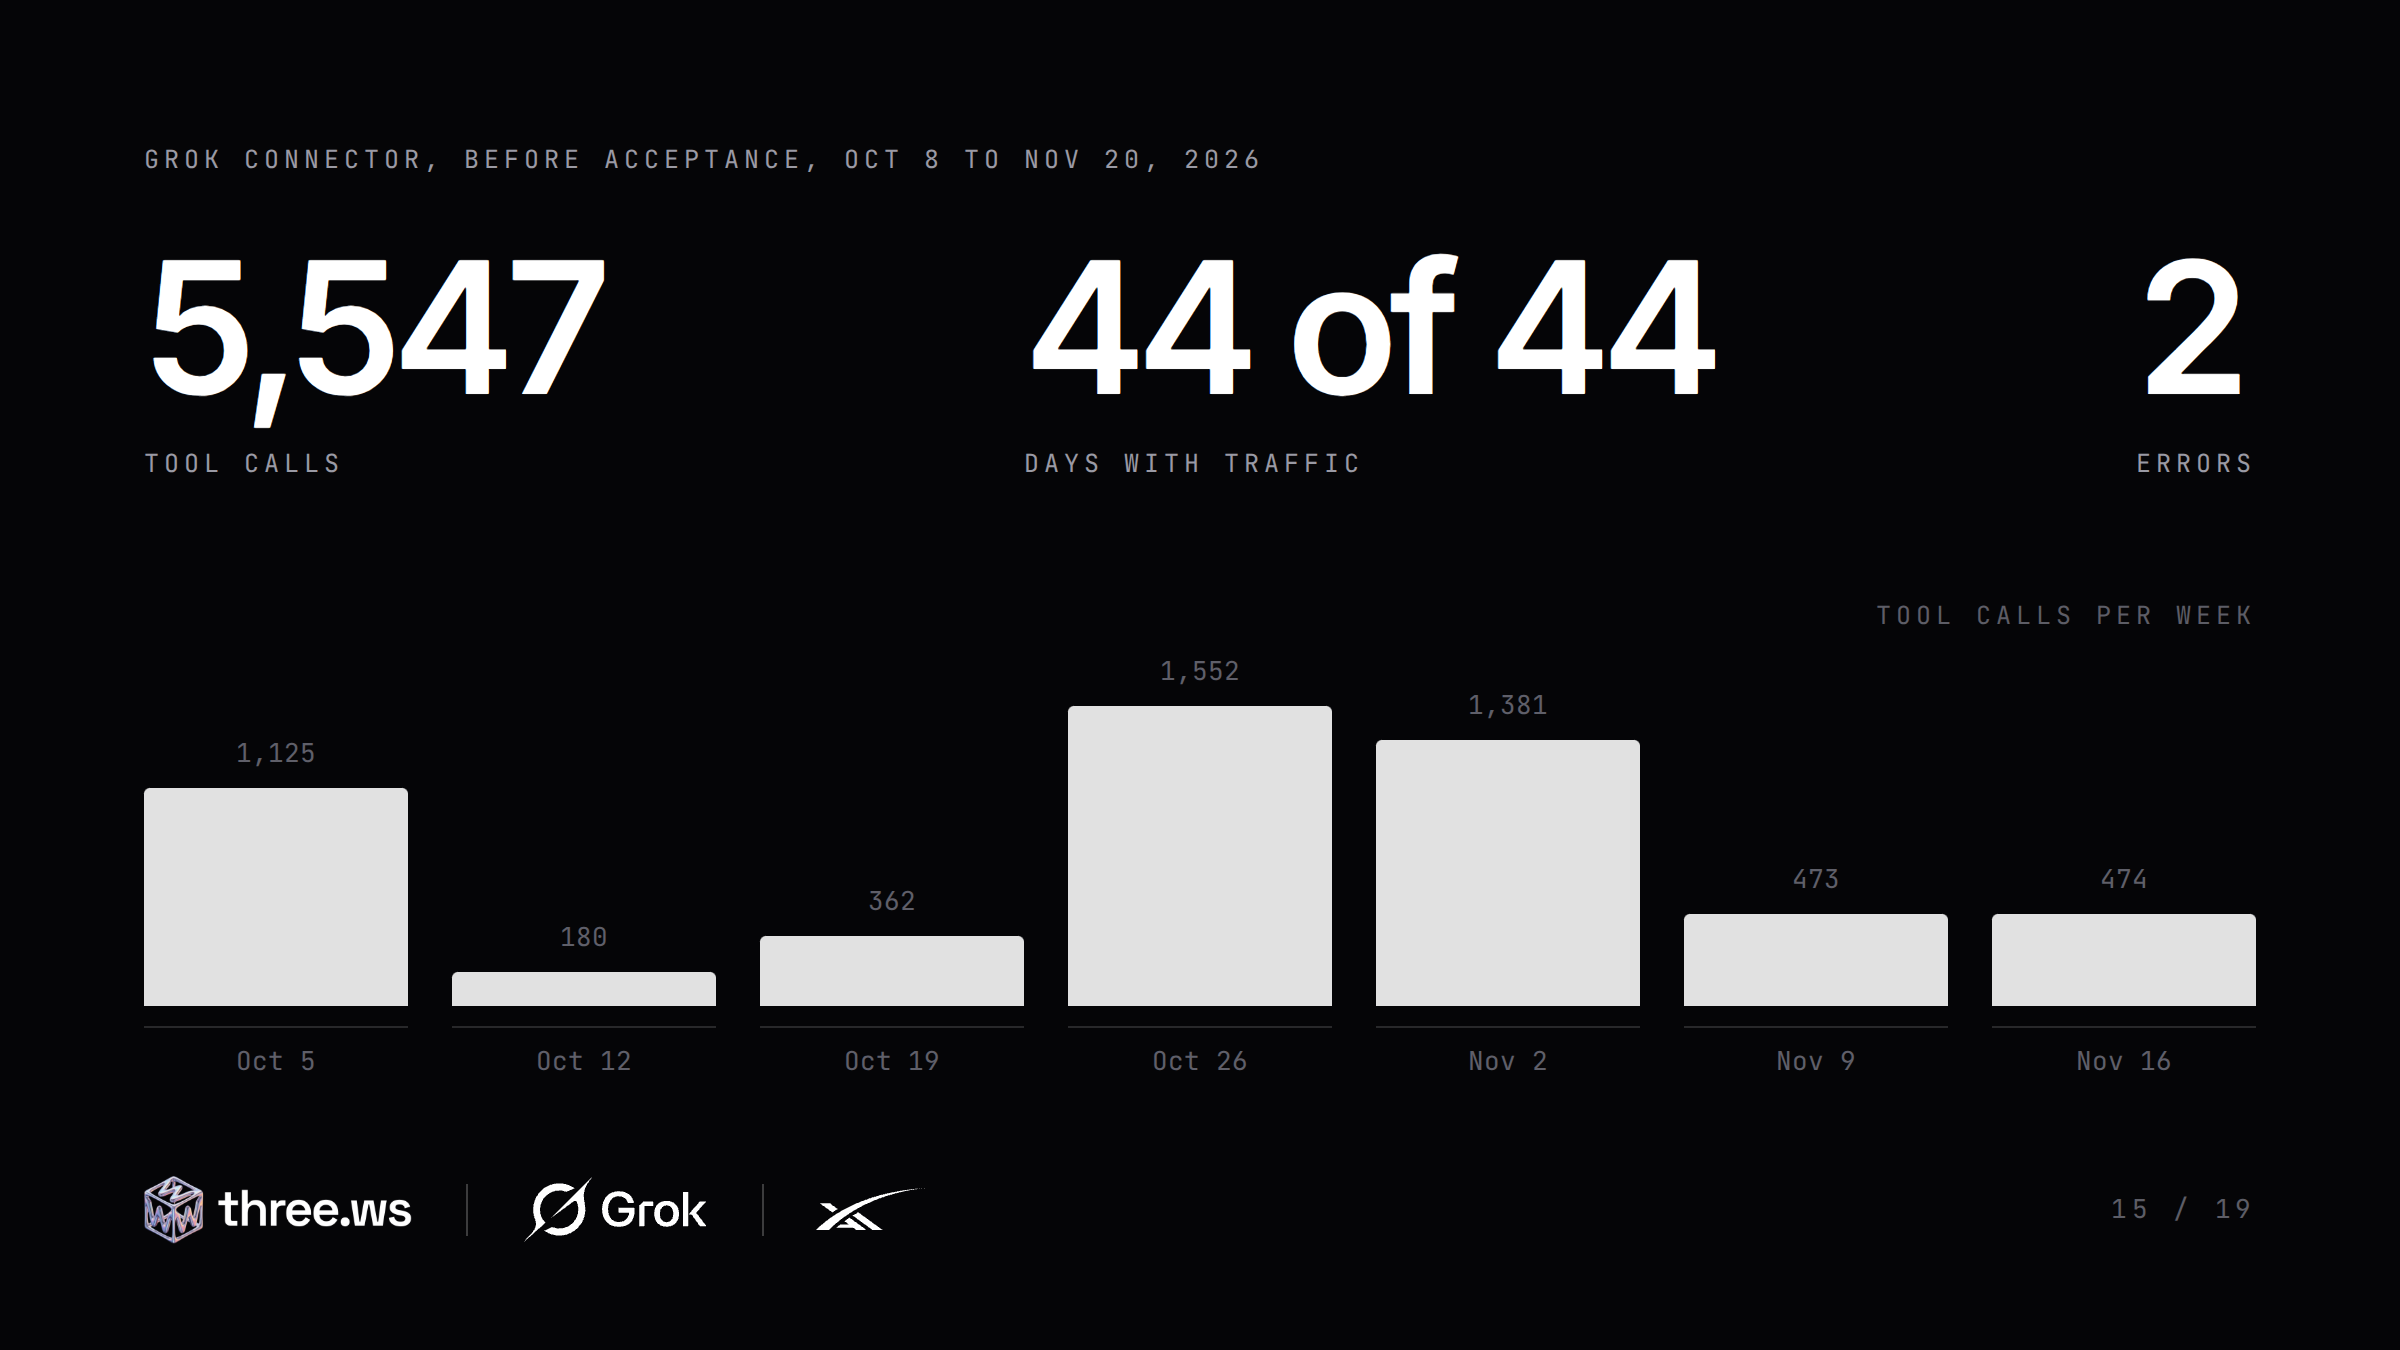
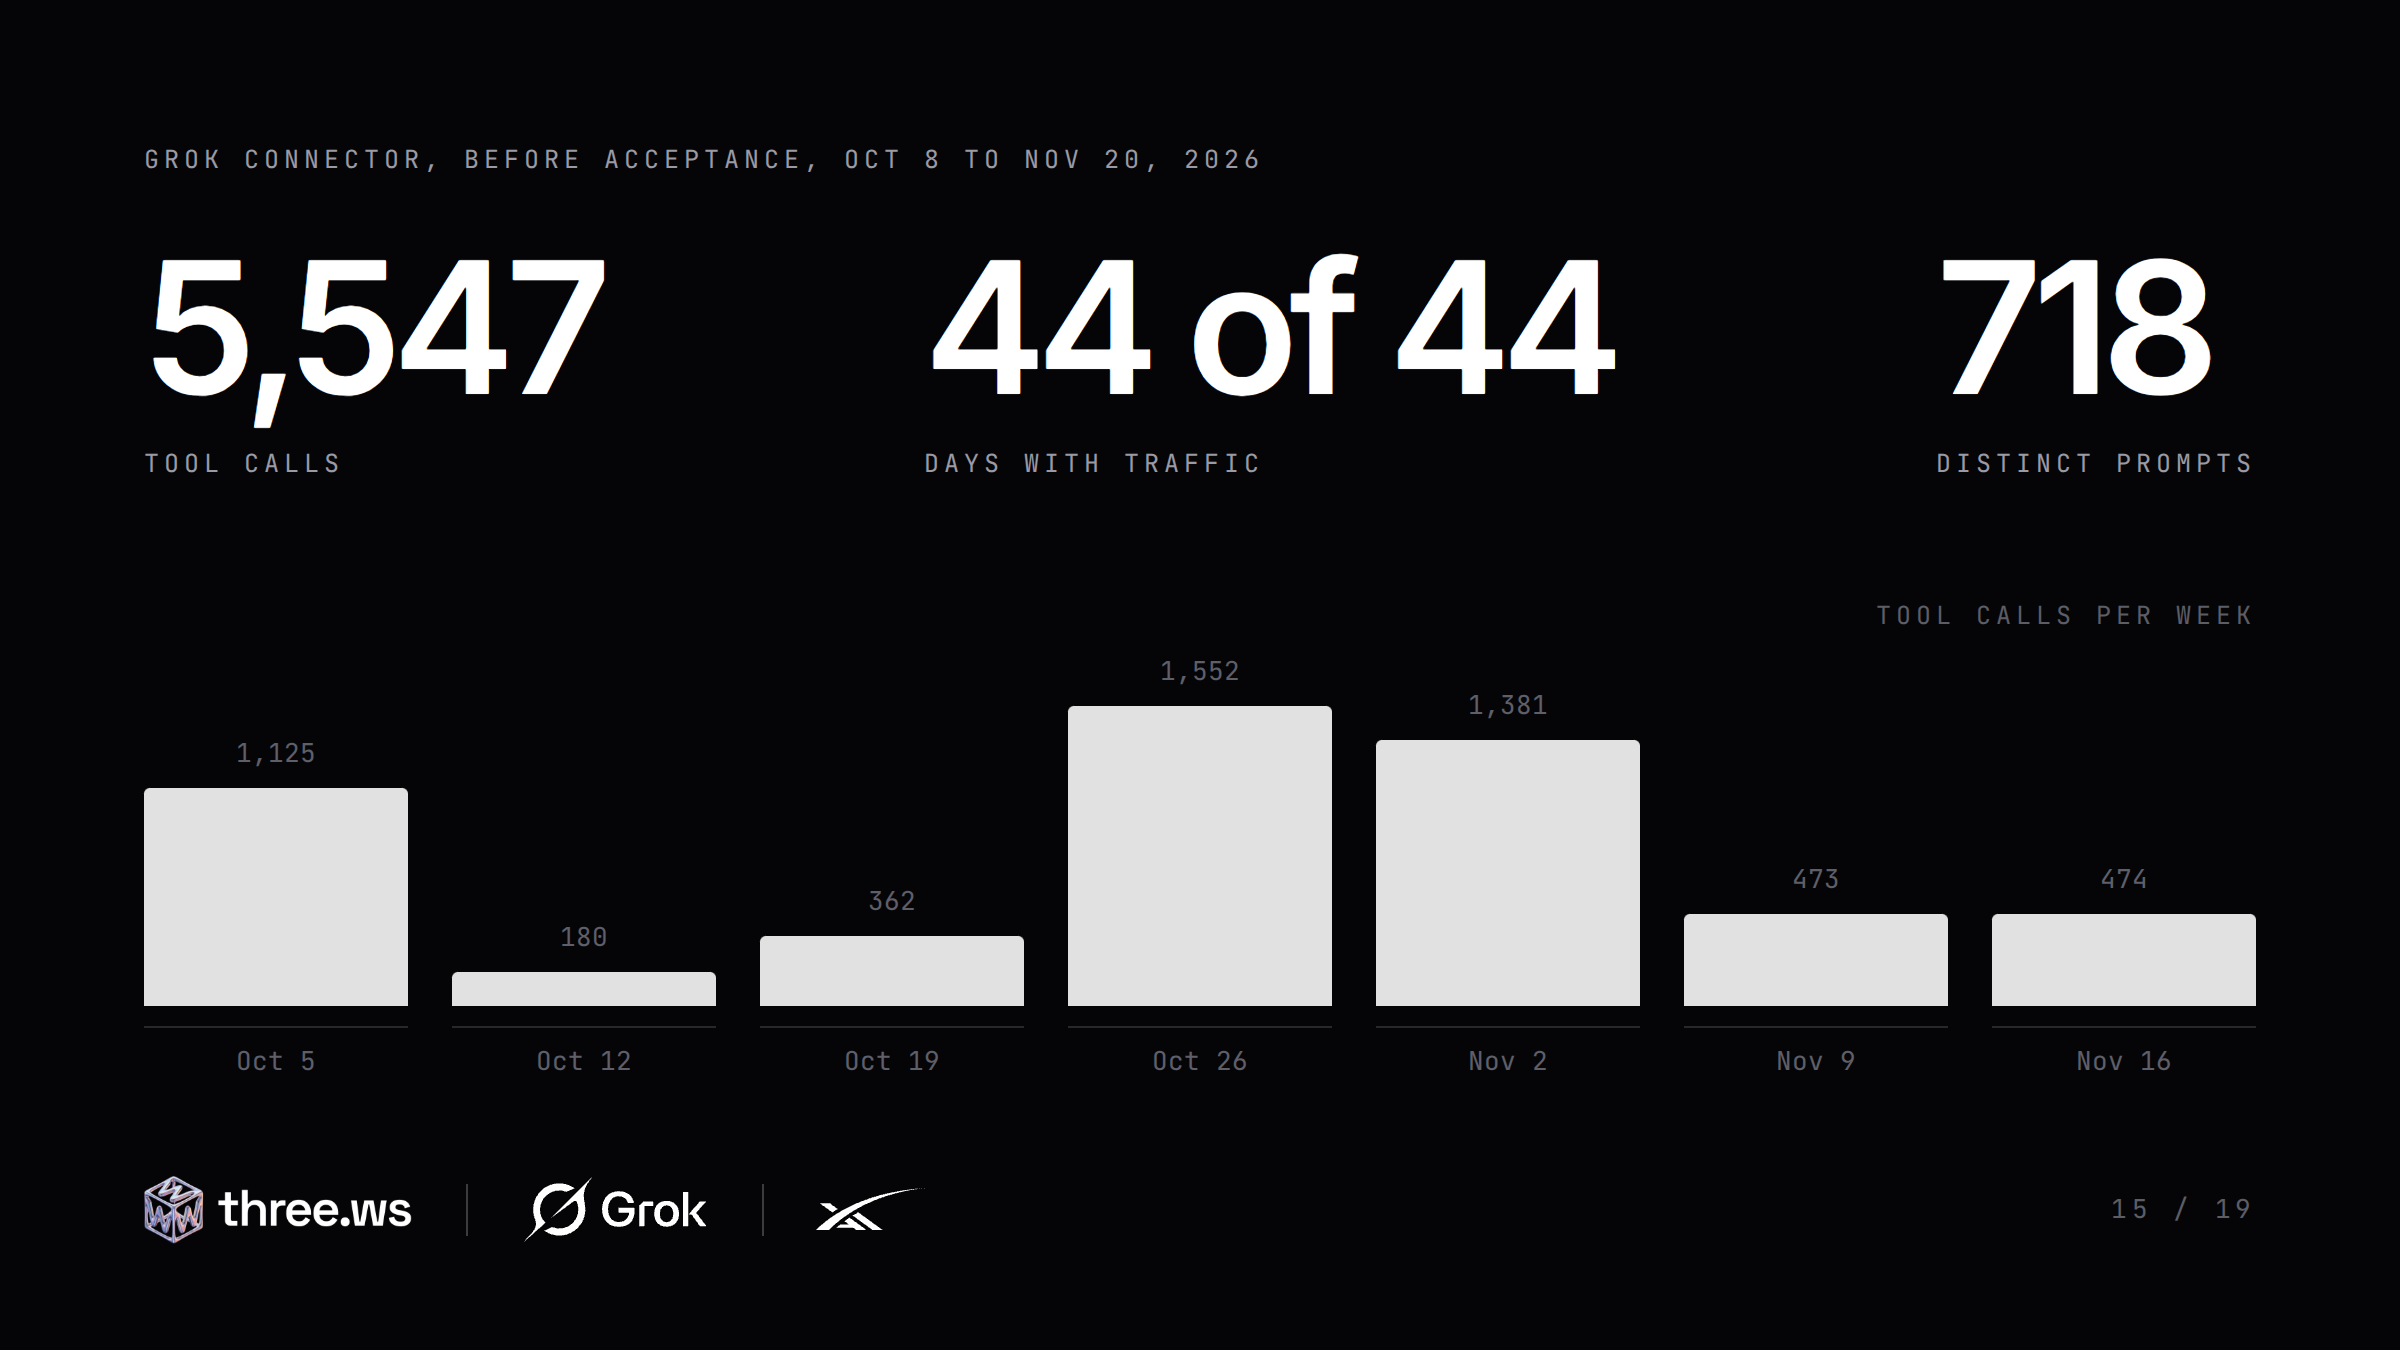
feat(x-media): re-render the Grok repost cards from new models and wait out rate limits
The repost thread's model cards now use freshly generated models (white sports
car and its chrome refine, rigged robot, wedge-shaped pickup), with the run
recorded in src/models.json and the four look_at_model frames beside it. The
generator waits for the reset time on rate limits and retries busy or slow
engines up to six times. The post doc records the tag and wording changes.

Changed region(s): [[0.375, 0.1867, 0.7188, 0.3111], [0.8125, 0.1867, 0.9375, 0.3111], [0.4688, 0.3111, 0.5, 0.3733]]

diff --git a/docs/x-posts/2026-11-27-grok-for-startups-repost.md b/docs/x-posts/2026-11-27-grok-for-startups-repost.md
@@ -12,7 +12,10 @@ The `[NEW]` markers are notes for us, not post text. Strip them when pasting.
 
 ## What changed from the 2026-11-25 thread
 
-- **Post 1:** "Now we're working directly with the xAI, @SpaceXSI and Cursor teams on co-marketing" is gone, along with the @SpaceXSI tag that sat in it. Nothing else in the original nine (now posts 1 to 4, 6, 8, 15, 18 and 19) changed.
+- **Post 1:** "Now we're working directly with the xAI, @SpaceXSI and Cursor teams on co-marketing" is gone. @SpaceXSI stays as a plain company mention at the end of the opening line, with no relationship claim.
+- **Post 6:** the personal tag @ericzakariasson is gone. Tags are company accounts only, never individual staff (owner, 2026-11-27).
+- **Post 15:** "2 errors" is gone from the text, and the usage card shows the 718 distinct prompts in that slot instead (owner, 2026-11-27).
+- Nothing else in the original nine (now posts 1 to 4, 6, 8, 15, 18 and 19) changed.
 - **Links:** `utm_content=announce` became `utm_content=repost` (and `repost-<post>` on the new posts) so the repost's clicks count separately.
 - **Added:** posts 5 (launch stack cutaway), 7 (Grok Build and Cursor plugins), 9 (Grok 3D starter app), 10 (Grok Bot task templates and one-command setup), 11 (three.ws webhooks wake Grok Bot), 12 (360 capture), 13 (agents on Grok with your own key), 14 (measured evals), 16 (public connector uptime) and 17 (Ask @grok).
 
@@ -193,13 +196,14 @@ Post 14 is the measured result of Grok on three.ws, from [docs/evals/grok-4-7-on
 
 - **Post 5:** [api/_lib/anatomy/featured/launch-stack.js](../../api/_lib/anatomy/featured/launch-stack.js): 29 parts, 10 tour steps, 33 booster engines, 6 upper-stage engines, hot staging, boostback, the tower catch, heat shield and two forward plus two aft flaps. Sources page and audit: [docs/anatomy/rocket-engines-sources.md](../anatomy/rocket-engines-sources.md); `tests/anatomy-featured.test.js` fails if a number is unsourced. Live id `d72da3e9-8aae-47cd-a96c-45ccd33bf1a0` (200 on 2026-11-27). The post names no vehicle or company, matching the cutaway, which carries no logos or trade dress.
 - **Post 7:** [integrations/grok/three-ws/](../../integrations/grok/three-ws/README.md): commands `make-3d`, `rig`, `embed`, `three-ws-init`; agent `3d-art-director` (four-side render, two-round hard stop); one MCP server, no executables. "Installed in under a second" is from the 2026-11-20 changelog entry. A live Grok Build model turn is order 458's proof.
-- **Post 9:** [satellites/grok-3d-starter/README.md](../../satellites/grok-3d-starter/README.md) (one Node server, one page, one dependency `three`, keys held server side), public at `github.com/nirholas/three.ws/tree/main/satellites/grok-3d-starter`. Needs the reader's own xAI key and a free three.ws key.
+- **Post 9:** [satellites/grok-3d-starter/README.md](../../satellites/grok-3d-starter/README.md) (one Node server, one page, one dependency `three`, keys held server side), public at `github.com/nirholas/three.ws/tree/main/satellites/grok-3d-starter`. Needs the reader's own xAI key and a free three.ws key. The quoted ask and follow-up are a real run on grok-4.7 against production, recorded with both GLBs, the tool calls and timings in [public/x-media/grok-startups-repost/src/starter.json](../../public/x-media/grok-startups-repost/src/starter.json).
 - **Post 10:** [pages/grok.html](../../pages/grok.html) `#build`, the "Grok Bot task templates" cards: 3.0 s (catalog kit), 194.0 s (prop pack), 301.6 s (photo to 3D), 455.4 s (rigged mascot, under 8 minutes). Setup command from [packages/three-ws-cli](../../packages/three-ws-cli/README.md); `@three-ws/cli@0.1.1` on npm includes the `grok-bot` client (checked 2026-11-27).
 - **Post 11:** [pages/grok.html](../../pages/grok.html) "Let three.ws wake your Grok Bot" and [api/_lib/webhook-dispatch.js](../../api/_lib/webhook-dispatch.js) (encrypted bearer token on each delivery, signature headers, retries, delivery log); changelog 2026-11-04.
 - **Post 12:** [api/_mcp-studio/pano-tools.js](../../api/_mcp-studio/pano-tools.js): `pano_capture_start` (360 footage to a Gaussian splat), `pano_scene_create` (one 360 photo to a metric depth shell GLB with the camera at the origin, plus a PLY point cloud), and the `pano_capture_status`, `pano_capture_list`, `pano_scene_status` tools, on `/api/mcp-studio` and `/api/mcp-grok` for signed-in accounts. Through the xAI API these work only once the schema fix `a99f32c10` is deployed (order 451).
 - **Post 13:** [api/_lib/agent-grok-key.js](../../api/_lib/agent-grok-key.js) (an owner's saved xAI key bills that owner's agents), the provider keys panel on `/dashboard/account`, and the 2026-11-21 changelog entries "Grok conversations reuse xAI's prompt cache" and "Agents set to Grok Build 0.1 now answer on Grok 4.7". The post promises nothing on our key: production carries no platform xAI key by owner decision.
 - **Post 16:** `https://three.ws/api/status/mcp`, the Grok server's `windows.7d` (`passed`, `probes`, `handshakeP50Ms`); 1,628 of 1,636 and 158 ms on 2026-11-27. Refresh on posting day. Probe: [api/_lib/mcp-probe.js](../../api/_lib/mcp-probe.js), every 5 minutes from `api/cron/mcp-probe.js`.
 - **Post 17:** the 2026-11-20 changelog entry "Ask @grok about any model, avatar or machine, straight from its page" ([src/model-page.js](../../src/model-page.js), [src/avatar-page.js](../../src/avatar-page.js), [src/forge.js](../../src/forge.js)).
+- **Models on cards 2, 3 and 17:** made through `/api/mcp-grok` exactly as Grok calls it (`forge_free`, `refine_model` "make it chrome", `forge_avatar` plus `rig_mesh`, `look_at_model`), recorded in [public/x-media/grok-startups-repost/src/models.json](../../public/x-media/grok-startups-repost/src/models.json) by `node scripts/grok-startups-post-models.mjs --set repost`. The prompts describe the objects generically (an electric sports car, an electric pickup, a humanoid robot) and name no company or product.
 - **Posts 3 and 15 numbers:** the [co-marketing kit appendix](../partners/xai-comarketing-kit.md#appendix-where-every-number-comes-from), refreshed on posting day with `node scripts/grok-comarketing-numbers.mjs --from 2026-10-08 --to <the day before posting>`.
 
 ## Held back until the production xAI key is on
@@ -213,19 +217,31 @@ These are built and wired but run only on a platform xAI key, which the owner is
 
 Also left out on purpose: the read-only Solana market tools on the Grok Bot connector (graduations, token intel, the market brief), because this thread never touches trading or tokens; and the `threejs-craft` Grok Build skill pack, which has no README or public install path yet.
 
-## Media for the new posts
+## Media
 
-- **Post 5:** `public/anatomy/og/launch-stack.png` works as is. For motion matching post 4, render the live cutaway (about 25 minutes without a GPU; `--preview` writes one still per scene first):
+One file per post in [public/x-media/grok-startups-repost/](../../public/x-media/grok-startups-repost/), each post's file named in its header above. The cards are the original thread's look (near-black ground, Inter, thin line art, the three.ws, Grok and SpaceXSI marks, an "NN / 19" counter), drawn by Claude from real data. Video only where a real render exists:
+
+- **Post 1:** `public/x-media/grok-startups-announce/head.mp4`, the original head video (it never carried the co-marketing line).
+- **Post 4:** `public/x-media/grok-startups-announce/ffsc-engine.mp4`, the original engine cutaway video.
+- **Post 5:** `post-05-launch-stack.mp4`, an 18.5 second render of the live launch stack cutaway.
+- **Posts 2, 3, 6 to 13 and 15 to 19:** `post-NN.png`, 1200x675 at 2x. The 3D subjects are a rocket (post 9), a red electric sports car and its chrome refine (posts 2 and 3), a rigged humanoid robot (post 2) and a stainless electric pickup (post 17), every one a real model.
+- **Post 14:** order 452 adds its card once the eval has every row.
+
+Re-render (order 452 does this on posting day, so post 16 shows that day's uptime):
 
 ```bash
-node scripts/anatomy-cutaway-video.mjs --id d72da3e9-8aae-47cd-a96c-45ccd33bf1a0 --out public/x-media/grok-startups-announce/launch-stack.mp4
+node scripts/grok-startups-post-models.mjs --set repost      # once; skips models already in src/models.json
+node scripts/grok-startups-repost-cards.mjs                   # every card, plus src/live.json
+node scripts/grok-startups-repost-cards.mjs --smoke-passed    # only once order 458 proved all six examples live
+node scripts/anatomy-cutaway-video.mjs --id d72da3e9-8aae-47cd-a96c-45ccd33bf1a0 \
+  --out public/x-media/grok-startups-repost/post-05-launch-stack.mp4
 ```
 
-- **Posts 7 to 17:** text only, or a screenshot of the surface each one links to (the Grok Build tab of `/grok#install`, the starter's stage with a model on it, the template cards at `/grok#build`, the webhook form, a `/pano-scene` result, the provider keys panel, the `/status` connector row, the Ask @grok share menu). Never show an account token or key in a screenshot.
+Post 16's text must match `src/live.json` from the same render.
 
 ## Tags
 
-The tags left are the original thread's: `@cursor_ai` (post 1, on its marketplace), `@ericzakariasson` (post 6), `@XDevelopers` (post 8), `@pumpdotfun` (post 18, our funding source, owner decision 2026-11-25) and `@grok` (posts 17 and 19). The new posts add no tags. Never tag @bot: tagging it starts a task for each reader's own Grok Bot. Never name $THREE, a contract address, a price or trading.
+Company accounts only, never individual staff (owner, 2026-11-27): `@SpaceXSI` (post 1, a plain mention), `@cursor_ai` (posts 1 and 7, on its marketplace and plugin), `@XDevelopers` (post 8), `@X` (post 17), `@grok` (posts 17 and 19) and `@pumpdotfun` (post 18, our funding source, owner decision 2026-11-25). Never tag @bot: tagging it starts a task for each reader's own Grok Bot. Never name $THREE, a contract address, a price or trading.
 
 ## Wording rules
 
